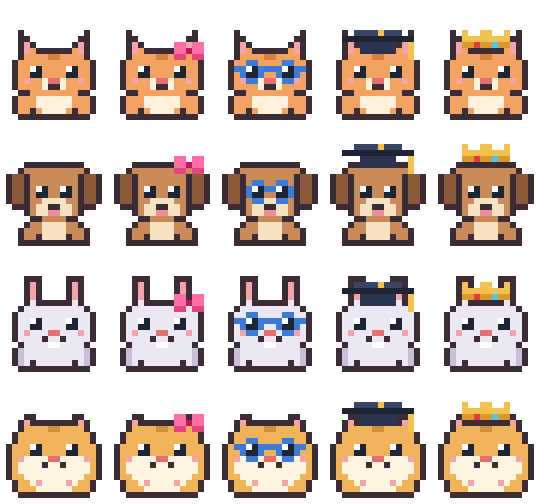
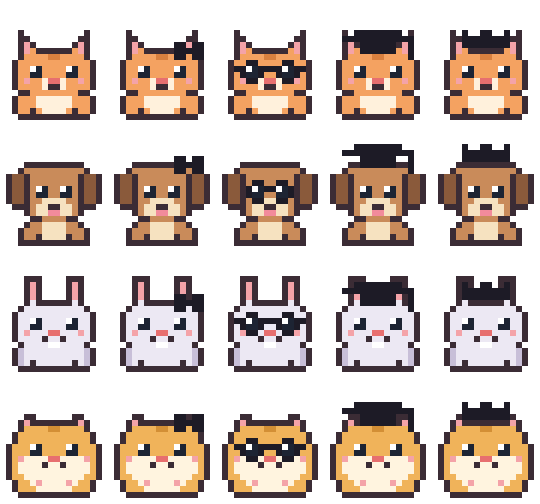
Hide locked accessories as silhouettes
The README and the wardrobe now show items as dark shapes labelled ??? until the pet unlocks them, so students discover each item by levelling up.

diff --git a/popup/popup.js b/popup/popup.js
@@ -108,7 +108,7 @@ function renderWardrobe(pet) {
   box.replaceChildren();
   for (const item of [{ id: null, level: 1 }, ...Store.ACCESSORIES]) {
     const locked = pet.level < item.level;
-    const name = t(item.id ? Store.accessoryKey(item.id) : 'accNone');
+    const name = locked ? t('accSecret') : t(item.id ? Store.accessoryKey(item.id) : 'accNone');
     const btn = document.createElement('button');
     btn.type = 'button';
     btn.className = 'wear';
@@ -116,7 +116,7 @@ function renderWardrobe(pet) {
     btn.setAttribute('aria-checked', String((pet.accessory || null) === item.id));
     btn.disabled = locked;
     btn.title = locked ? t('accLocked', [I18n.number(item.level)]) : name;
-    btn.setAttribute('aria-label', locked ? `${name}: ${btn.title}` : name);
+    btn.setAttribute('aria-label', locked ? `${t('accSecretItem')}: ${btn.title}` : name);
 
     const fig = document.createElement('div');
     fig.className = 'wear-fig';

diff --git a/popup/popup.css b/popup/popup.css
@@ -139,7 +139,8 @@ h3 { font-size: 15px; }
 .wear span { max-width: 100%; overflow: hidden; text-overflow: ellipsis; white-space: nowrap; }
 .wear[aria-checked="true"] { border-color: var(--primary); background: #fff1eb; }
 .wear:disabled { cursor: not-allowed; color: var(--muted); }
-.wear:disabled .wear-fig { filter: grayscale(1); opacity: .45; }
+.wear:disabled .wear-fig img:not(.acc) { filter: grayscale(1); opacity: .35; }
+.wear:disabled .wear-fig .acc { filter: brightness(0); opacity: .85; }
 .wear-lock {
   position: absolute;
   top: 2px;

diff --git a/tools/make_icons.py b/tools/make_icons.py
@@ -1,6 +1,7 @@
 """Builds the toolbar icons (icons/icon{16,32,48,128}.png) from the cat sprite,
 128px README previews of every pet sprite (docs/pets/*.png), and a sheet of
-every pet wearing every accessory (docs/accessories.png).
+every pet with each accessory as a dark "locked" silhouette, so the README
+doesn't spoil them (docs/accessories.png).
 
 The pet sprites in images/pets/ were drawn with the Pixel Art MCP server
 (https://github.com/adrianoamaral/pixel-mcp). This script only scales the
@@ -77,28 +78,31 @@ ACCESSORIES = ['bow', 'glasses', 'cap', 'crown']
 HEAD_LIFT = {'dog': -2, 'hamster': -1}  # keep in sync with lib/store.js
 
 
+SILHOUETTE = b'\x1d\x1b\x26\xff'
+
+
 def accessory_sheet(pets_dir, dest, scale=6, top=3, gap=2):
     cols = [None] + ACCESSORIES
     cell_w, cell_h = 16 + gap, 16 + top + gap
     width, height = cell_w * len(cols), cell_h * len(SPECIES)
     grid = [[b'\x00\x00\x00\x00'] * width for _ in range(height)]
 
-    def blit(name, ox, oy):
+    def blit(name, ox, oy, colour=None):
         w, h, rows = read_png(os.path.join(pets_dir, name))
         for y in range(h):
             for x in range(w):
                 px = rows[y][x * 4:x * 4 + 4]
                 if px[3] and 0 <= oy + y < height:
-                    grid[oy + y][ox + x] = px
+                    grid[oy + y][ox + x] = colour or px
 
     for r, species in enumerate(SPECIES):
         for c, acc in enumerate(cols):
             ox, oy = c * cell_w + gap // 2, r * cell_h + top + gap // 2
             blit(f'{species}-idle.png', ox, oy)
             if acc == 'glasses':
-                blit('acc-glasses-dog.png' if species == 'dog' else 'acc-glasses.png', ox, oy)
+                blit('acc-glasses-dog.png' if species == 'dog' else 'acc-glasses.png', ox, oy, SILHOUETTE)
             elif acc:
-                blit(f'acc-{acc}.png', ox, oy + HEAD_LIFT.get(species, 0))
+                blit(f'acc-{acc}.png', ox, oy + HEAD_LIFT.get(species, 0), SILHOUETTE)
 
     write_png(dest, width * scale, lambda x, y: grid[y // scale][x // scale], height * scale)
 

diff --git a/README.md b/README.md
@@ -9,13 +9,13 @@ Adopt a pixel-art **cat, dog, rabbit or hamster**, give it a name, and it lives 
 | **Sad** | <img src="docs/pets/cat-sad.png" width="96" alt="Cat, sad"> | <img src="docs/pets/dog-sad.png" width="96" alt="Dog, sad"> | <img src="docs/pets/rabbit-sad.png" width="96" alt="Rabbit, sad"> | <img src="docs/pets/hamster-sad.png" width="96" alt="Hamster, sad"> |
 
 - **Pet** – feed, play with and put your pet to sleep; watch happiness, energy, XP and level. Pets level up from playing and from finished focus sessions.
-- **Wardrobe and titles** – levelling up unlocks accessories your pet can wear and gives it new titles:
+- **Wardrobe and titles** – levelling up unlocks four secret accessories your pet can wear, and gives it new titles. Level up to find out what they are!
 
   | Level | 1 | 2 | 3 | 4 | 5 | 6 | 8 | 10 | 12 |
   |---|---|---|---|---|---|---|---|---|---|
-  | Unlocks | Newcomer | Bow | Study Buddy | Glasses | Bookworm | Graduation cap | Scholar | Crown | Professor |
+  | Unlocks | Newcomer | 🔒 ??? | Study Buddy | 🔒 ??? | Bookworm | 🔒 ??? | Scholar | 🔒 ??? | Professor |
 
-  <img src="docs/accessories.png" width="540" alt="Each pet with no accessory, a bow, glasses, a graduation cap and a crown">
+  <img src="docs/accessories.png" width="540" alt="Each pet next to four locked accessories, shown only as dark silhouettes">
 
 - **Focus** – a study timer (Pomodoro). Every finished session gives your pet XP and sends a desktop notification.
 - **Timetable** – add your weekly classes and see what's next today.
@@ -25,7 +25,7 @@ Adopt a pixel-art **cat, dog, rabbit or hamster**, give it a name, and it lives 
 The extension is written in **English**. All interface text lives in one file:
 
 ```
-_locales/en/messages.json      ← 124 strings, about 440 words
+_locales/en/messages.json      ← 126 strings, about 445 words
 ```
 
 Your task is to translate this file in **Phrase TMS**, put the translated file back into the extension, and test the localised extension in Chrome.
@@ -108,7 +108,7 @@ Read the context note for **every** segment. Look out for:
 - **User content** – the name the user types for their pet is *not* in the file and is never translated. Test your strings with a long name, a short name and a name in another script.
 - **Animal names** – `speciesCat`, `speciesDog` … appear under small pictures and in a dropdown, so keep them short.
 - **Titles** – `titleNewcomer` … `titleProfessor` are ranks shown under the pet's name. They must work for any animal and any pet name, so avoid words that only fit one gender or one animal. They are also inserted into `reactNewTitle` ("Level 5! New title: Bookworm") – check the grammar there.
-- **Accessories** – `accBow`, `accGlasses`, `accCap`, `accCrown` label tiny wardrobe buttons (max 10 characters). Read the descriptions: "Bow" is a ribbon, not a weapon; "Glasses" are spectacles.
+- **Accessories** – the `acc…` item names label tiny wardrobe buttons (max 10 characters). Some of them are ambiguous in English, so read each description before you translate. Locked items show `accSecret` ("???") instead of their name – decide whether your language keeps "???" or uses something else.
 - **Abbreviations and conventions** – `e.g.`, `min`, `XP`, the time-range dash in `$START$–$END$`.
 - **Tone** – the pet's speech bubbles (`react…`, `pagePetTip…`) are playful; buttons and error messages are neutral.
 - **Technical string** – `appLocale` is **not** a word to translate. Replace `en` with your locale code (see the table in 4.1). It controls date, time and number formatting.
@@ -176,7 +176,7 @@ If Chrome shows an error and refuses to load the extension, your file is usually
    - [ ] Timetable – add classes, trigger both error messages (empty name; end time before start time), check weekday names, time format and the "Next up" box. Hover over the × button to see its tooltip.
    - [ ] Web pages – open any website, click your pet for tips; while a focus session is running, click it to see the "minutes to go" message. Hover to see the × tooltip.
    - [ ] Adoption and level-up – *Settings → Reset all data* shows the adoption screen again: check the animal names and the suggested names. Play with your pet until it levels up to see the level-up message.
-   - [ ] Wardrobe and titles – at level 2 the pet gets a bow, at level 3 a new title. Check both level-up messages, the title under the name, every wardrobe label, and the "Unlocks at level …" tooltip on locked items. Focus sessions give 20 XP each, so a few short 1-minute sessions level the pet up quickly.
+   - [ ] Wardrobe and titles – at level 2 the pet unlocks its first secret item, at level 3 a new title. Check both level-up messages, the title under the name, every wardrobe label, and the "Unlocks at level …" tooltip on locked items. Focus sessions give 20 XP each, so a few short 1-minute sessions level the pet up quickly.
    - [ ] Pet name – rename your pet in *Settings → Your pet* (try a long name) and check every sentence that contains the name.
    - [ ] Is the terminology consistent across screens (e.g. "focus session", "break", "XP")?
 4. Fix issues in Phrase (keep your TM up to date!), export again, replace the file, reload and re-test.
